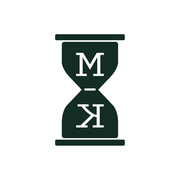
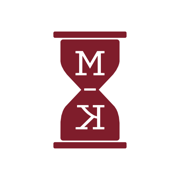
redmark 2026-08-18: 탭 파비콘 MARC 마크·딥레드 + PNG 아이콘 재생성

Changed region(s): [[0.2778, 0.1667, 0.7222, 0.8333]]

diff --git a/index.html b/index.html
@@ -7,11 +7,13 @@
 <meta name="theme-color" content="#162e23">
 <title>MAKERS TASKS</title>
 <!-- build: projfilter 2026-07-04 / redeploy 2026-07-05 / rename-r2 / doneat-endfix / rm-databtns-r2 / donedate-edit 2026-07-21 / pwa 2026-08-12 / resync 2026-08-12 / sw 2026-08-14 / enddate-autodone 2026-08-14 / brandmark 2026-08-17 / ownerfilter 2026-08-17 / fluidside 2026-08-17 (Pages 재빌드 트리거용) -->
-<meta name="app-version" content="fluidside-20260817">
+<meta name="app-version" content="redmark-20260818">
 
 <!-- PWA: 아이폰 '홈 화면에 추가' 시 앱처럼 전체화면 실행 -->
 <link rel="manifest" href="manifest.webmanifest">
 <link rel="apple-touch-icon" href="icon-180.png">
+<!-- 탭 파비콘: MARC와 같은 마크(투명 SVG, 다크모드 대응) · 색만 딥레드 -->
+<link rel="icon" type="image/svg+xml" href="favicon.svg?v=red1">
 <link rel="icon" type="image/png" sizes="192x192" href="icon-192.png">
 <meta name="apple-mobile-web-app-capable" content="yes">
 <meta name="mobile-web-app-capable" content="yes">
